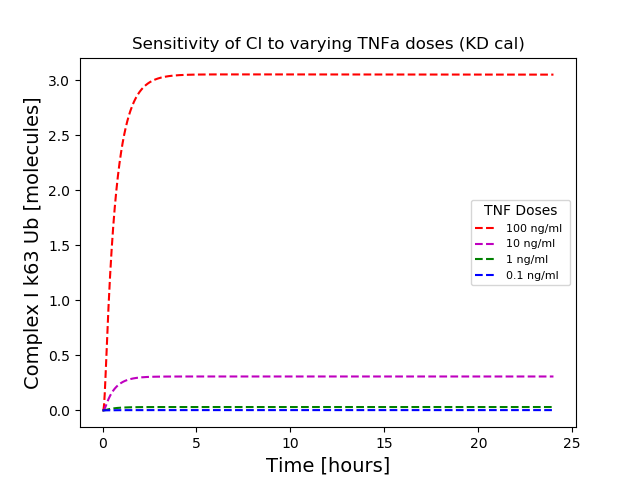
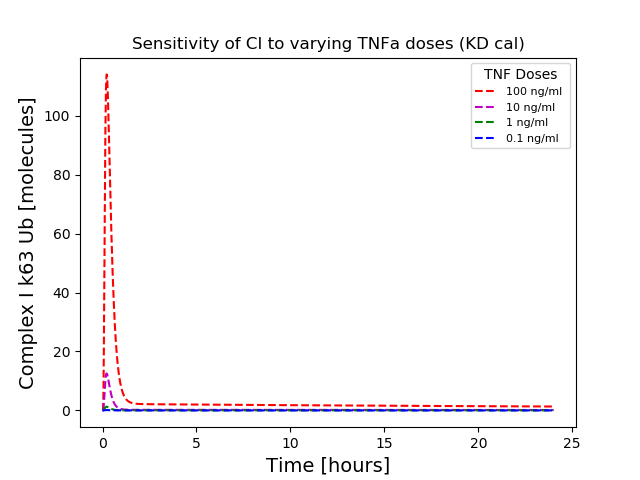
changing initials for necro for calibration

diff --git a/simplepso/examples/necroptosismodule.py b/simplepso/examples/necroptosismodule.py
@@ -49,18 +49,18 @@ Monomer('LUBAC', ['brip'])
 
 Parameter('TNF_0', 2326)
 Parameter('TNFR_0', 4800)
-Parameter('TRADD_0', 9000)
+Parameter('TRADD_0', 4696) #4696
 Parameter('RIP1_0', 40000)
-Parameter('TRAF_0', 9000)
+Parameter('TRAF_0', 11776) #11776
 Parameter('cIAP_0', 9000)
 Parameter('A20_0', 9000)
 Parameter('CYLD_0', 9000)
-Parameter('FADD_0', 8030)
+Parameter('FADD_0', 3109) #3109
 Parameter('flip_L_0', 3900)
 Parameter('Lubac_0', 7226)
-Parameter('C8_0', 9000)
-Parameter('RIP3_0', 40000)
-Parameter('MLKLa_0', 10000)
+Parameter('C8_0', 3799) #3799
+Parameter('RIP3_0', 10654) #10654
+Parameter('MLKLa_0', 5544) #5544
 
 # Parameter('TNF_0', 232) # initial condition
 # Parameter('TNFR_0', 4800)
@@ -265,7 +265,7 @@ generate_equations(model)
 #     print('{},{:e}'.format(p.name,p.value))
 
 
-pars =  np.load('optimizer_best_200_mar5.npy')
+pars =  np.load('optimizer_best_1000_mar5.npy')
 rate_params = model.parameters_rules() # these are only the parameters involved in the rules
 param_values = np.array([p.value for p in model.parameters]) # these are all the parameters
 rate_mask = np.array([p in rate_params for p in model.parameters])
@@ -288,6 +288,10 @@ param_values[rate_mask] = 10 ** pars
 # plt.show()
 #
 
+fdkd = []
+tdkd =
+a20kd =
+c8kd =
 
 tnf = [2326, 232, 23,2]
 color = ['r', 'm', 'g', 'b']
@@ -318,45 +322,45 @@ with open('params_cal_kd.txt', 'w') as f:
 plt.figure()
 for n in range(0,4):
     # plt.plot(tspan, df.loc[n]['MLKLa_obs'].iloc[:], c = color[n],lw =1.5) #fst-pso
-    plt.plot(tspan/60, df.loc[n]['MLKLa_obs'].iloc[:], '--', c = color[n],lw = 1.5) #fppf
+    plt.plot(tspan/60, df.loc[n]['MLKLa_obs'].iloc[:],  c = color[n],lw = 1.5) #fppf
 # plt.scatter(x, mlkl, color = 'tab:gray', marker = 's')
 plt.xlabel('Time [hours]', fontsize=14)
 plt.ylabel('Phosphorylated MLKL amount [molecules]', fontsize=14)
-plt.title('Sensitivity of pMLKL to varying TNFa doses (KD cal)')
+plt.title('Sensitivity of pMLKL to varying TNFa doses (A20KD cal)')
 plt.legend(['100 ng/ml ', '10 ng/ml', '1 ng/ml', '0.1 ng/ml'] , title = 'TNF Doses', loc='top left', fontsize = 8)
 # plt.legend(['100 ng/ml ', '10 ng/ml', '1 ng/ml', '0.1 ng/ml'] , title = 'TNF FPPF', loc=0, fontsize = 5)
 # plt.legend(flipnum, title = 'flip', loc=0, fontsize = 5)
 # plt.ylim(ymax = 6000)
-plt.savefig('pMLKL to varying TNFa doses (KD cal)')
+plt.savefig('pMLKL to varying TNFa doses (A20KD cal)')
 # plt.show()
 
 plt.figure()
 for n in range(0,4):
     # plt.plot(tspan, df.loc[n]['MLKLa_obs'].iloc[:], c = color[n],lw =1.5) #fst-pso
-    plt.plot(tspan/60, df.loc[n]['CI_k63_obs'].iloc[:], '--', c = color[n],lw = 1.5) #fppf
+    plt.plot(tspan/60, df.loc[n]['CI_k63_obs'].iloc[:], c = color[n],lw = 1.5) #fppf
 # plt.scatter(x, mlkl, color = 'tab:gray', marker = 's')
 plt.xlabel('Time [hours]', fontsize=14)
 plt.ylabel('Complex I k63 Ub [molecules]', fontsize=14)
-plt.title('Sensitivity of CI to varying TNFa doses (KD cal)')
+plt.title('Sensitivity of CI to varying TNFa doses (A20KD cal)')
 plt.legend(['100 ng/ml ', '10 ng/ml', '1 ng/ml', '0.1 ng/ml'] , title = 'TNF Doses', loc='best', fontsize = 8)
 # plt.legend(['100 ng/ml ', '10 ng/ml', '1 ng/ml', '0.1 ng/ml'] , title = 'TNF FPPF', loc=0, fontsize = 5)
 # plt.legend(flipnum, title = 'flip', loc=0, fontsize = 5)
 # plt.ylim(ymax = 6000)
-plt.savefig('CI to varying TNFa doses (KD cal)')
+plt.savefig('CI to varying TNFa doses (A20KD cal)')
 # plt.show()
 
 plt.figure()
 for n in range(0,4):
     # plt.plot(tspan, df.loc[n]['MLKLa_obs'].iloc[:], c = color[n],lw =1.5) #fst-pso
-    plt.plot(tspan/60, df.loc[n]['CII_obs'].iloc[:], '--', c = color[n],lw = 1.5) #fppf
+    plt.plot(tspan/60, df.loc[n]['CII_obs'].iloc[:], c = color[n],lw = 1.5) #fppf
 # plt.scatter(x, mlkl, color = 'tab:gray', marker = 's')
 plt.xlabel('Time [hours]', fontsize=14)
 plt.ylabel('Complex II [molecules]', fontsize=14)
-plt.title('Sensitivity of CII to varying TNFa doses (KD cal)')
+plt.title('Sensitivity of CII to varying TNFa doses (A20KD cal)')
 plt.legend(['100 ng/ml ', '10 ng/ml', '1 ng/ml', '0.1 ng/ml'] , title = 'TNF Doses', loc='best', fontsize = 8)
 # plt.legend(['100 ng/ml ', '10 ng/ml', '1 ng/ml', '0.1 ng/ml'] , title = 'TNF FPPF', loc=0, fontsize = 5)
 # plt.legend(flipnum, title = 'flip', loc=0, fontsize = 5)
 # plt.ylim(ymax = 6000)
-plt.savefig('CII to varying TNFa doses (KD cal)')
+plt.savefig('CII to varying TNFa doses (A20KD cal)')
 plt.show()
 

diff --git a/data_plotting.py b/data_plotting.py
@@ -10,9 +10,62 @@ from scipy.interpolate import *
 import scipy.interpolate
 import numpy as np
 
+# x = [0,1,23]
+# y = [3798.81606,11838.08526, 5907.897248]
+# plt.plot(x,y, marker ='o')
+# plt.legend(loc = 'best')
+# plt.show()
+
+# df = pd.DataFrame({
+# '1': [11838,
+# 136357 ,
+# 26292  ,
+# 9109   ,
+# 9346   ,
+# 70389  ,
+# 9228   ,
+# 4328   ,
+# 7432   ,
+# 17032  ,
+# 25557  ,
+# 10675  ,
+# 702    ,
+# 4450   ,
+# 2754   ,
+# 5869],
+# '23': [5907,
+# 193589 ,
+# 8123   ,
+# 119922 ,
+# 2808   ,
+# 10537  ,
+# 9943   ,
+# 8173   ,
+# 6773   ,
+# 2290   ,
+# 9845   ,
+# 30566  ,
+# 19469  ,
+# 2812   ,
+# 11913  ,
+# 11197]}, index=['Casp8', 'Bid', 'Mcl1', 'Bax','Fadd',
+# 'Bad',
+# 'BclxL',
+# 'Mlkl',
+# 'Rip3',
+# 'NFkB2',
+# 'Tradd',
+# 'Casp3',
+# 'Casp7',
+# 'IkBe',
+# 'Nemo',
+# 'RelA'])
+#
+# lines = df.plot.line(marker = 'o')
+# plt.show()
 # df1 = pd.read_csv("data_1_ms.csv")
 # df2 = pd.read_csv("data_23_ms.csv")
-df3 = pd.read_csv("data_tr_231.csv")
+df3 = pd.read_csv("ms_data_0124.csv")
 # print(df1.head())
 # print(df3['1'][0], df3['23'][0])
 # quit()
@@ -38,20 +91,21 @@ df3 = pd.read_csv("data_tr_231.csv")
 # # plt.legend('Casp8')
 # # plt.show()
 #
-# plt.figure(figsize=(20,10))
-# # plt.scatter(x, params, label = 'PFu', color = 'blue', lw =1)
-# plt.scatter(df3['prot'][:], df3['1'][:], label = '1 hr', color = 'red', lw =3, subplots = True)
-# plt.scatter(df3['prot'][:], df3['23'][:], label ='23 hr', color = 'blue',lw = 3)
-# # plt.scatter(x, pre_cal_kin, label ='preCal', color = 'green', lw = 1)
-# plt.xlabel('Significant Proteins', fontsize=20)
-# plt.ylabel('Amount [Molecules/Cell]', fontsize=20)
-# plt.xticks(df3['prot'][:], fontsize = 18)
-# plt.yticks(fontsize = 18)
-# plt.title('Label-Free MS: L929 cells treated with 10 ng/ml TNFa', fontsize = 18)
-# plt.legend(loc = 'best',prop={'size': 20})
-# plt.savefig('1_23hr_tr_pt')
-# # plt.legend(flipnum, title = 'flip', loc=0, fontsize = 5)
-# # plt.show()
+plt.figure(figsize=(20,10))
+df3.plot.bar(x='1_prot', rot=0, title='Label-Free MS: L929 cells treated with 10 ng/ml TNFa', figsize=(22,10),color = ['red', 'green', 'blue'],fontsize=16)
+# plt.scatter(df3['1_prot'][:], df3['CT'][:], label = '0 hr', color = 'red', lw =3)
+# plt.scatter(df3['1_prot'][:], df3['1TR'][:], label = '1 hr', color = 'green', lw =3)
+# plt.scatter(df3['1_prot'][:], df3['24TR'][:], label ='23 hr', color = 'blue',lw = 3)
+# plt.scatter(x, pre_cal_kin, label ='preCal', color = 'green', lw = 1)
+plt.xlabel('Significant Proteins', fontsize=20)
+plt.ylabel('Amount [Molecules/Cell]', fontsize=20)
+plt.xticks(fontsize = 18)
+plt.yticks(fontsize = 18)
+plt.title('Label-Free MS: L929 cells treated with 10 ng/ml TNFa', fontsize = 18)
+plt.legend(loc = 'best',prop={'size': 20})
+plt.savefig('ct_1_24hr_tr_pt_hist')
+# plt.legend(flipnum, title = 'flip', loc=0, fontsize = 5)
+plt.show()
 #
 # # plt.figure(figsize=(20,10))
 # # # plt.scatter(x, params, label = 'PFu', color = 'blue', lw =1)
@@ -77,12 +131,14 @@ df3 = pd.read_csv("data_tr_231.csv")
 # # plt.plot(df3['prot'],df3['1'][:])
 # # plt.show()
 
-fig = plt.figure()
-fig.subplots_adjust(hspace=0.4, wspace=0.4)
-for i in range(1,7):
-    plt.subplot(2,3,i)
-    plt.scatter(df3['prot'][i], df3['1'][i])
-    plt.scatter(df3['prot'][i], df3['23'][i])
-    df3.set_index(['1','23'])
-    # plt.xticks(labels = ['1', '23'])
-plt.show()
+# fig = plt.figure()
+# fig.subplots_adjust(hspace=0.4, wspace=0.4)
+# # for i in range(1,7):
+# #     plt.subplot(2,3,i)
+# row = df3.iloc[0]
+# row.plot(kind='scatter')
+# # plt.scatter(df3.iloc[0])
+# # plt.scatter(df3['23'][])
+# # df3.set_index(['1','23'])
+#     # plt.xticks(labels = ['1', '23'])
+# plt.show()
